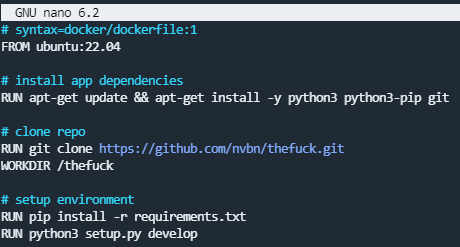
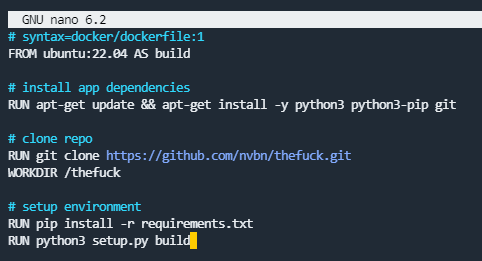
DEVOPS: Add text and photos for 'deploy' step

diff --git a/GCL3/WS307534/Lab2/Sprawozdanie.md b/GCL3/WS307534/Lab2/Sprawozdanie.md
@@ -169,6 +169,14 @@ Serwisy są uruchamiane równolegle, dlatego musimy użyć atrybutu **depends_on
 ![](.\screeny\kompozycja_uruchomienie.png)
 
 2. Wdróż :)
+Jako wdrożenie utworzymy pakiet DEB, umożliwiający instalację aplikacji dla dystrybucji bazujących na debianie.
+W tym celu tworzymy osobny **Dockerfile** wyglądający w ten sposób:
+![](.\screeny\publish_dockerfile.png)
+Bazujemy tutaj na obrazie utworzonym z testów, ponieważ nie chcemy mieć możliwości zbudowania tego kontenera, gdy nie będzie możliwości utworzenia obrazu kontenera testowego
+
+![](.\screeny\efekt_publisha.png)
+Jak widać pakiet DEB został poprawnie utworzony
+Następnym krokiem byłoby przekopiowanie pakietu DEB do hosta i uruchomienie w osobnym kontenerze, tak aby przetestwować instalację
 
 ### Przygotowanie do wdrożenia (deploy): dyskusje
 ---
@@ -189,7 +197,7 @@ Program nadaje się do publikowania jako kontener, lecz nie miało by to za duż
     - W jaki sposób zapewnić taki format? Dodatkowy krok (trzeci kontener)? Jakiś przykład?
     Taki format (np. DEB) można zapewnić poprzez zbudowanie pakietu zgodnie z tą instrukcją: https://www.internalpointers.com/post/build-binary-deb-package-practical-guide. Budowanie pakietu DEB najlepiej wykonać w osobnym kontenerze po wykonaniu builda i testów, ponieważ na pakiecie DEB nie wykonamy już unit testów.
     Osobny kontener najpierw zweryfikowałby czy unit testy przeszły, następnie bazując na obrazie z **build'a**:
-    1. Doinstalował potrzebne programy do utworzenia pakietu DEB m.in. dpkg-deb
+    1. Doinstalował potrzebne programy do utworzenia pakietu DEB
     2. Utworzył docelową strukturę pakietu oraz przekopiował potrzebne pliki programu w odpowiednie miejsca
     3. Utworzył i wypełnił plik "control"
     4. Zbudował pakiet DEB
